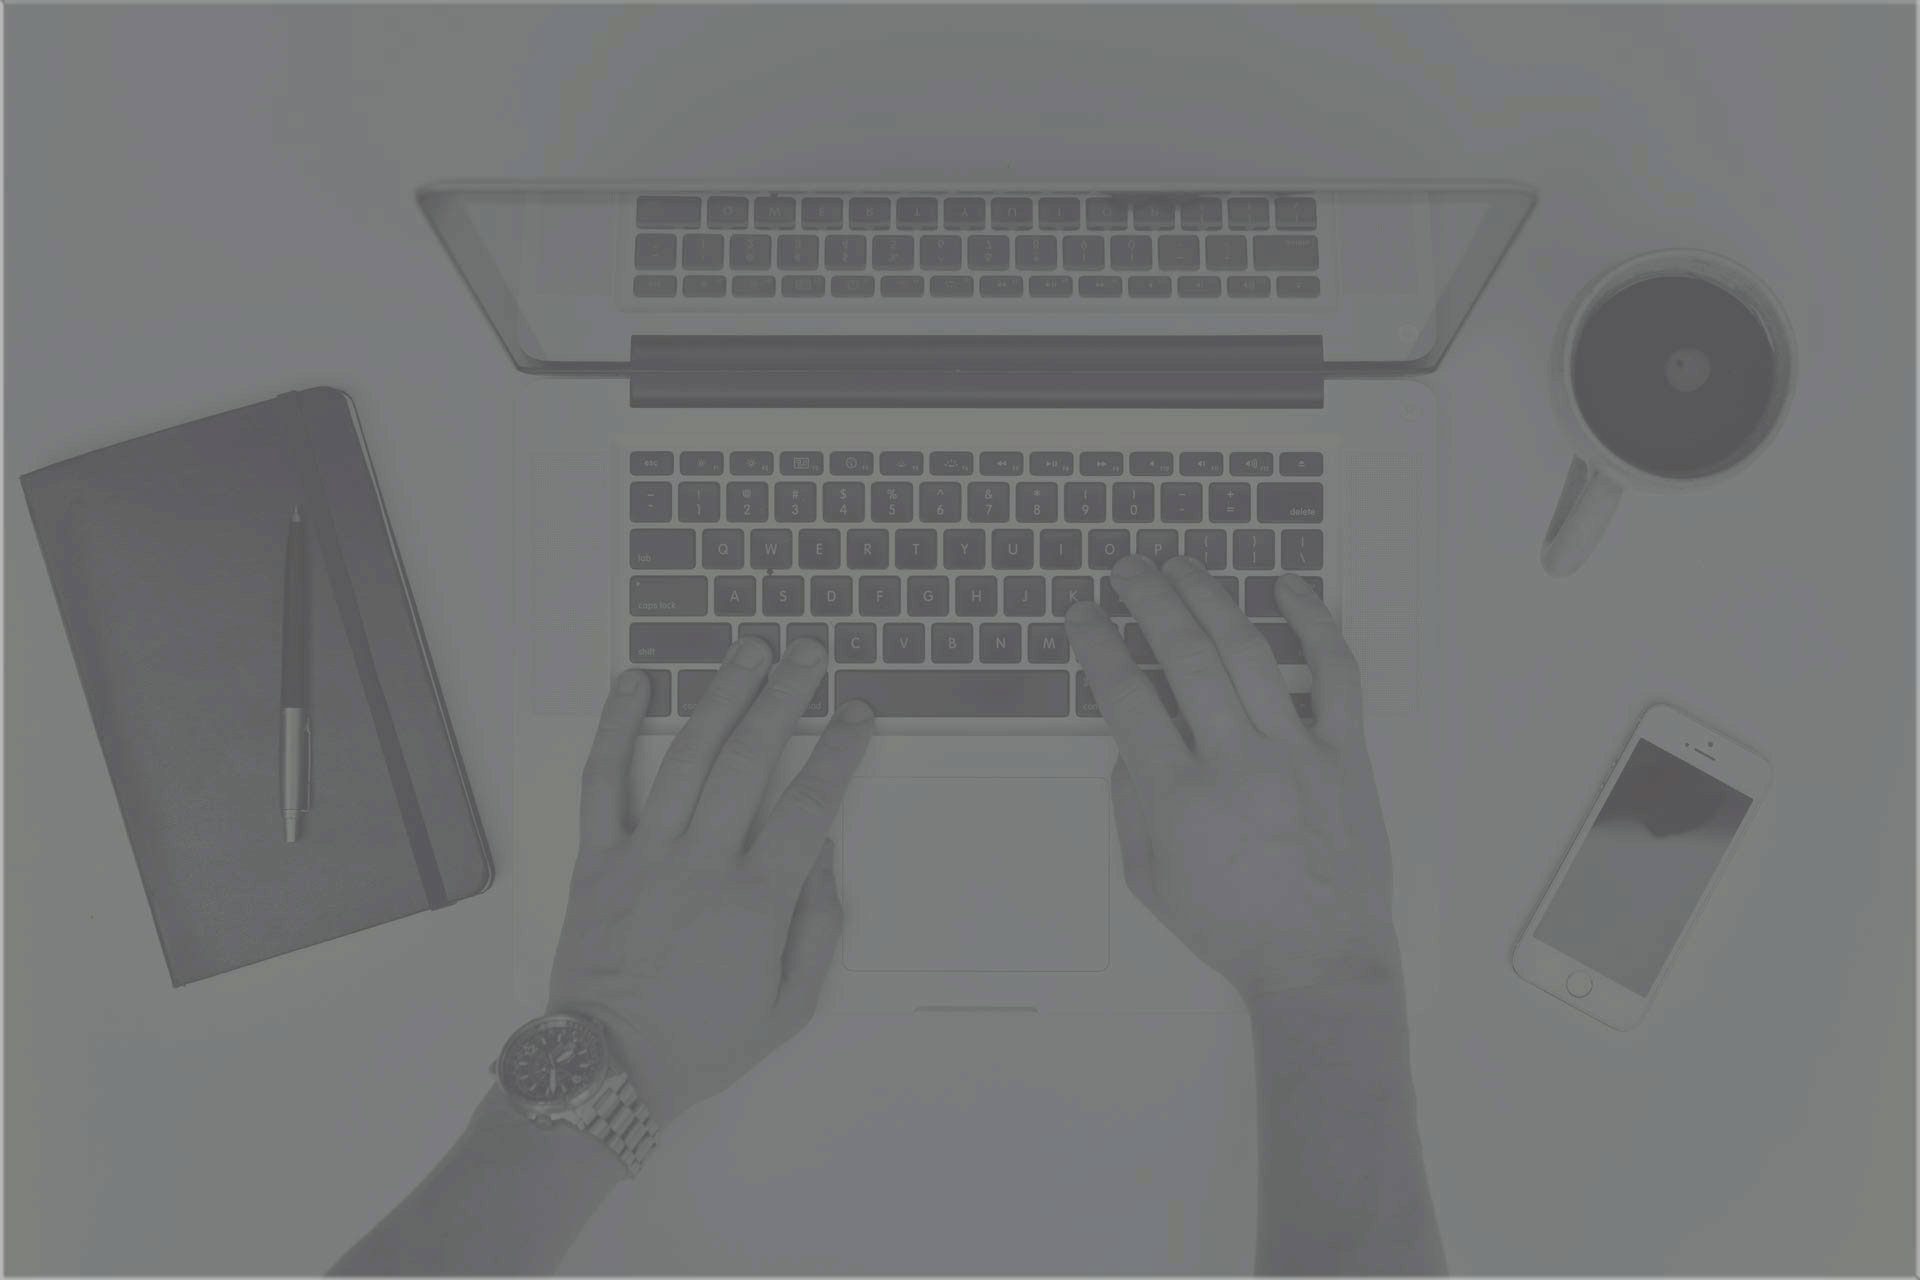
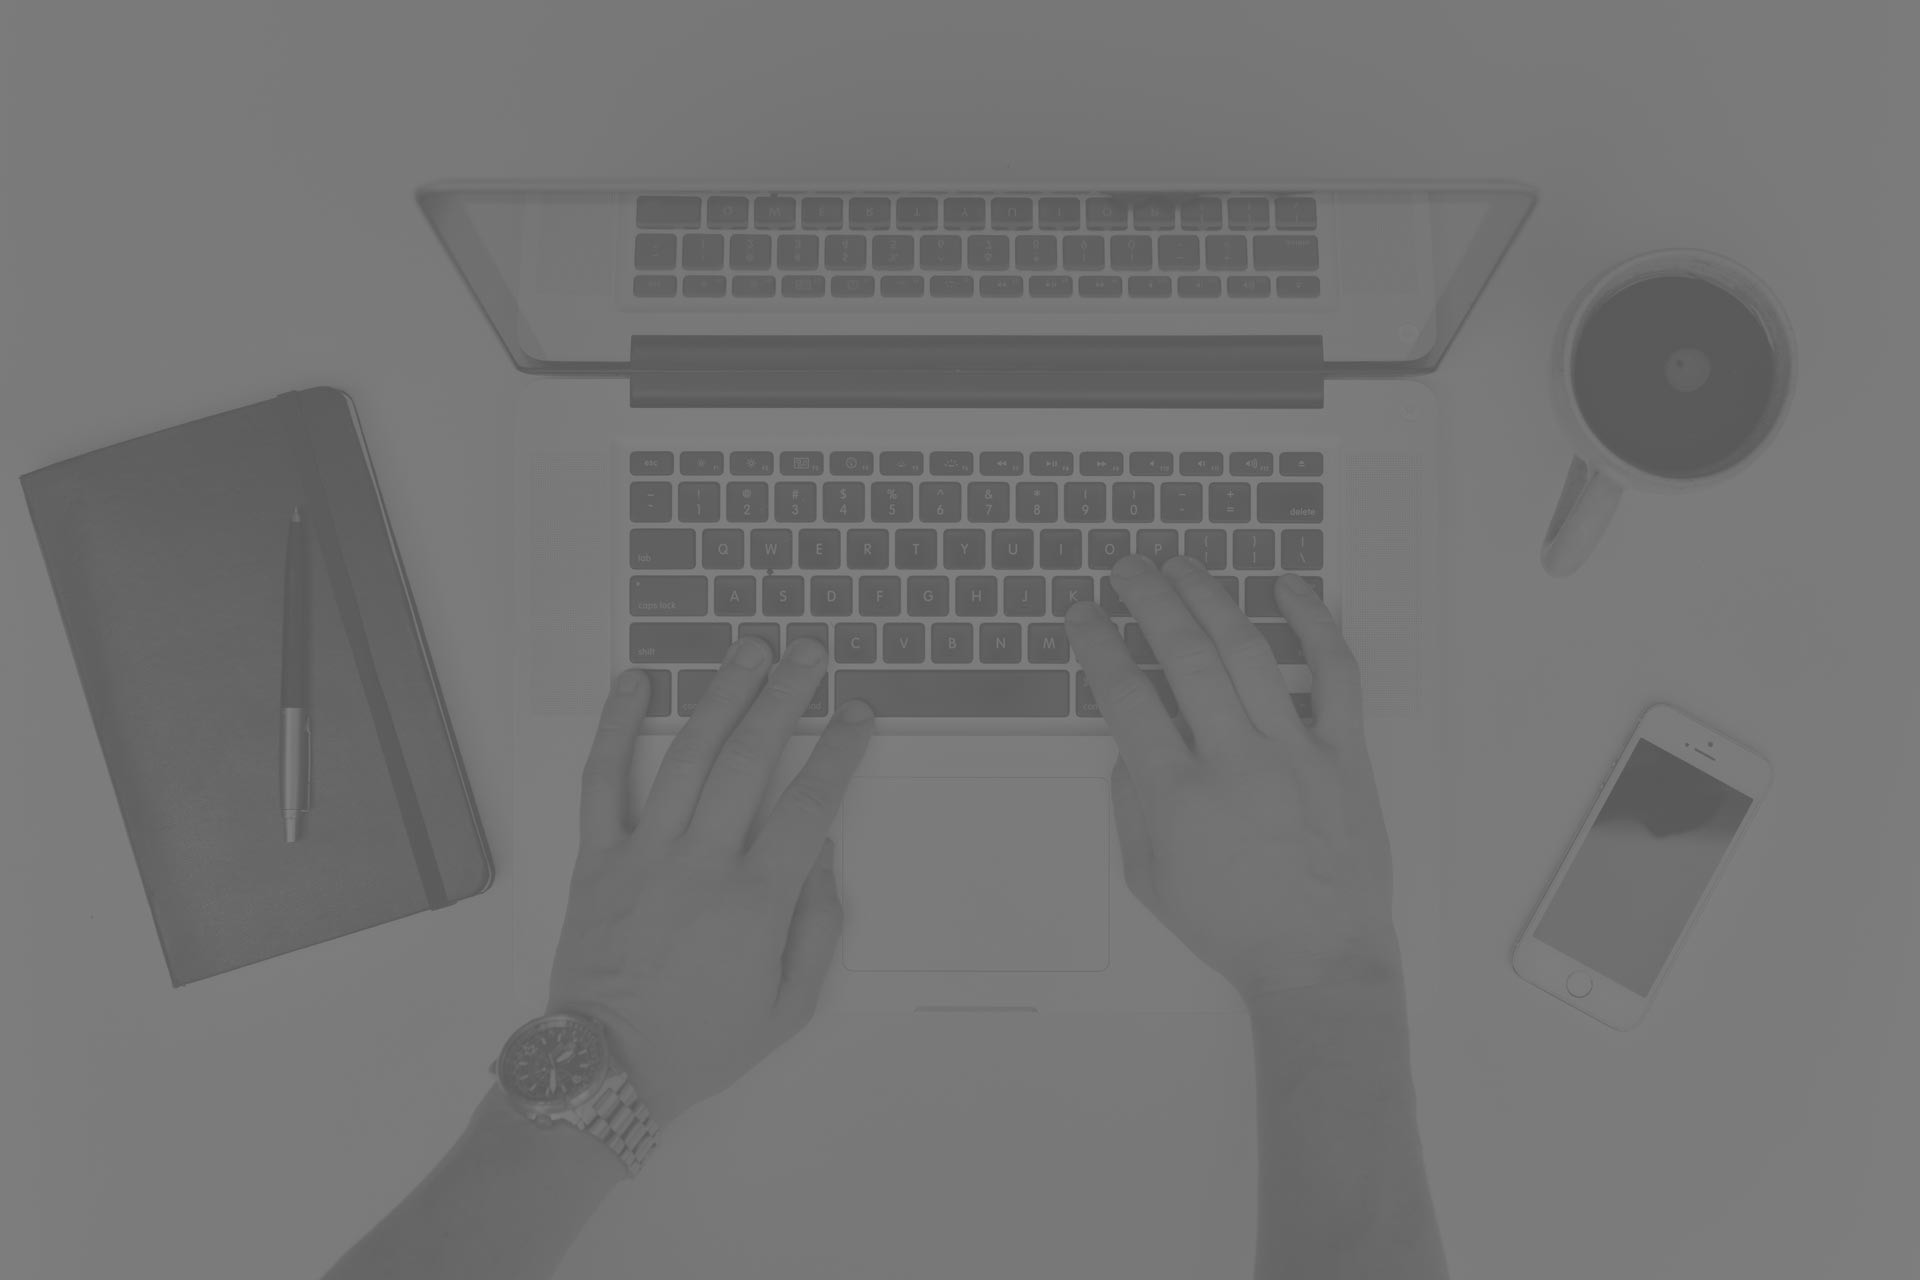
optim.img

diff --git a/My portfolio/index.html b/My portfolio/index.html
@@ -42,10 +42,11 @@
         </div>
     </div>
 </nav>
+<a name="aboutMe"></a>
 <div id="about">
     <div class="container">
         <div class="section-title text-center center">
-            <h2><a name="aboutMe"></a> ABOUT ME</h2>
+            <h2> ABOUT ME</h2>
             <hr>
         </div>
         <div class="row">
@@ -56,20 +57,20 @@
                 <div class="about-text text-center">
                     <p>I`m a front end developer. Currently, I live in Kiev (Ukraine) and work in freelance. I build
                         websites and
-                        specialize in front-end development (HTML5, CSS3, Javascript). I write responsive, semantic and
+                        specialize in front-end development (HTML5, CSS3, Javascript) and write responsive, semantic and
                         cross-browser code.
-                        I love developing cool sites and trying modern techniques.
+                        I love developing cool sites and trying modern techniques.<br>
                         Honest. Open-minded. Team player. Fast learner.</p>
                 </div>
             </div>
         </div>
     </div>
 </div>
-
+<a name="myportfolio"></a>
 <div id="portfolio">
     <div class="container">
         <div class="section-title text-center center">
-            <h2><a name="myportfolio"></a> MY PORTFOLIO</h2>
+            <h2>MY PORTFOLIO</h2>
             <hr>
         </div>
         <div class="clearfix text-center">
@@ -84,14 +85,14 @@
                     <a href="http://ververa.github.io/final_exam/build/" rel="prettyPhoto">
                         <h4>Mock-up for the site 'HOLIDAY'</h4>
                     </a>
-                        <span>Used technologies: HTML5, CSS (SCSS), jQuery, BEM,
+                        <span>Used technologies:<br> HTML5, CSS (SCSS), jQuery, BEM,
                             Pixel Perfect,
                             Cross-browser (IE8+ support),
                             Responsive design (mobile first),
                             NPM, Gulp</span>
                     <div class="clearfix"></div>
                     <i class="fa fa-search"></i>
-                    <a class="view" href="https://github.com/VerVera/VerVera.github.io/tree/master/final_exam">view
+                    <a class="view" href="https://github.com/VerVera/VerVera.github.io/tree/master/final_exam">View
                         the code</a>
                 </div>
                 <img src="./img/project2.jpg" class="img-responsive" alt="Project 'Holiday'">
@@ -105,12 +106,12 @@
                     <a href="http://ververa.github.io/JSHomeWork19-20/" rel="prettyPhoto">
                         <h4>Mock-up for the site 'BUILD'</h4>
                     </a>
-                    <small>Used technologies: HTML5, CSS (SCSS), jQuery plugin, BEM,
+                    <small>Used technologies:<br> HTML5, CSS (SCSS), jQuery plugin, BEM,
                         Responsive design
                     </small>
                     <div class="clearfix"></div>
                     <i class="fa fa-search"></i>
-                    <a class="view" href="https://github.com/VerVera/VerVera.github.io/tree/master/JSHomeWork19-20">view
+                    <a class="view" href="https://github.com/VerVera/VerVera.github.io/tree/master/JSHomeWork19-20">View
                         the code</a>
                 </div>
                 <img src="./img/project1.jpg" class="img-responsive" alt="Project 'Build'">
@@ -120,10 +121,11 @@
     </div>
 </div>
 </div>
+<a name="myskills"></a>
 <div id="skills">
     <div class="container">
         <div class="section-title text-center center">
-            <h2><a name="myskills"></a> MY SKILLS</h2>
+            <h2> MY SKILLS</h2>
             <hr>
         </div>
         <div class="row">
@@ -195,10 +197,11 @@
         </div>
     </div>
 </div>
+<a name="mycontact"></a>
 <div id="contact">
     <div class="container">
         <div class="section-title text-center center">
-            <h2><a name="mycontact"></a> CONTACT ME</h2>
+            <h2> CONTACT ME</h2>
             <hr>
             <h4>email: kosteva.vera@gmail.com</h4>
             <p>ALWAYS INTERESTED IN NEW PROJECTS, JUST SEND ME AN EMAIL AND I'LL GET BACK TO YOUR INQUIRY ASAP.</p>

diff --git a/My portfolio/css/style.css b/My portfolio/css/style.css
@@ -5,7 +5,7 @@
 
 .hhh {
     height: 400px;
-    background: url("../img/back.jpg") no-repeat;
+    background: url("../img/back2.jpg") no-repeat;
     background-size: cover;
     padding: 50px;
 }
@@ -40,6 +40,7 @@
 
 .navbar {
     margin-bottom: 0px;
+    border-radius: 0px;
 }
 
 .navbar-inverse .navbar-nav > li > a {
@@ -88,8 +89,10 @@
     margin-top: 20px;
     margin-bottom: 30px;
     color: #ffffff;
-    font-size: 17px;
-    letter-spacing: 0.4px;
+    font-size: 20px;
+    font-weight: 700;
+    letter-spacing: 0.7px;
+    line-height: 36.8px;
 }
 
 .text-center {
